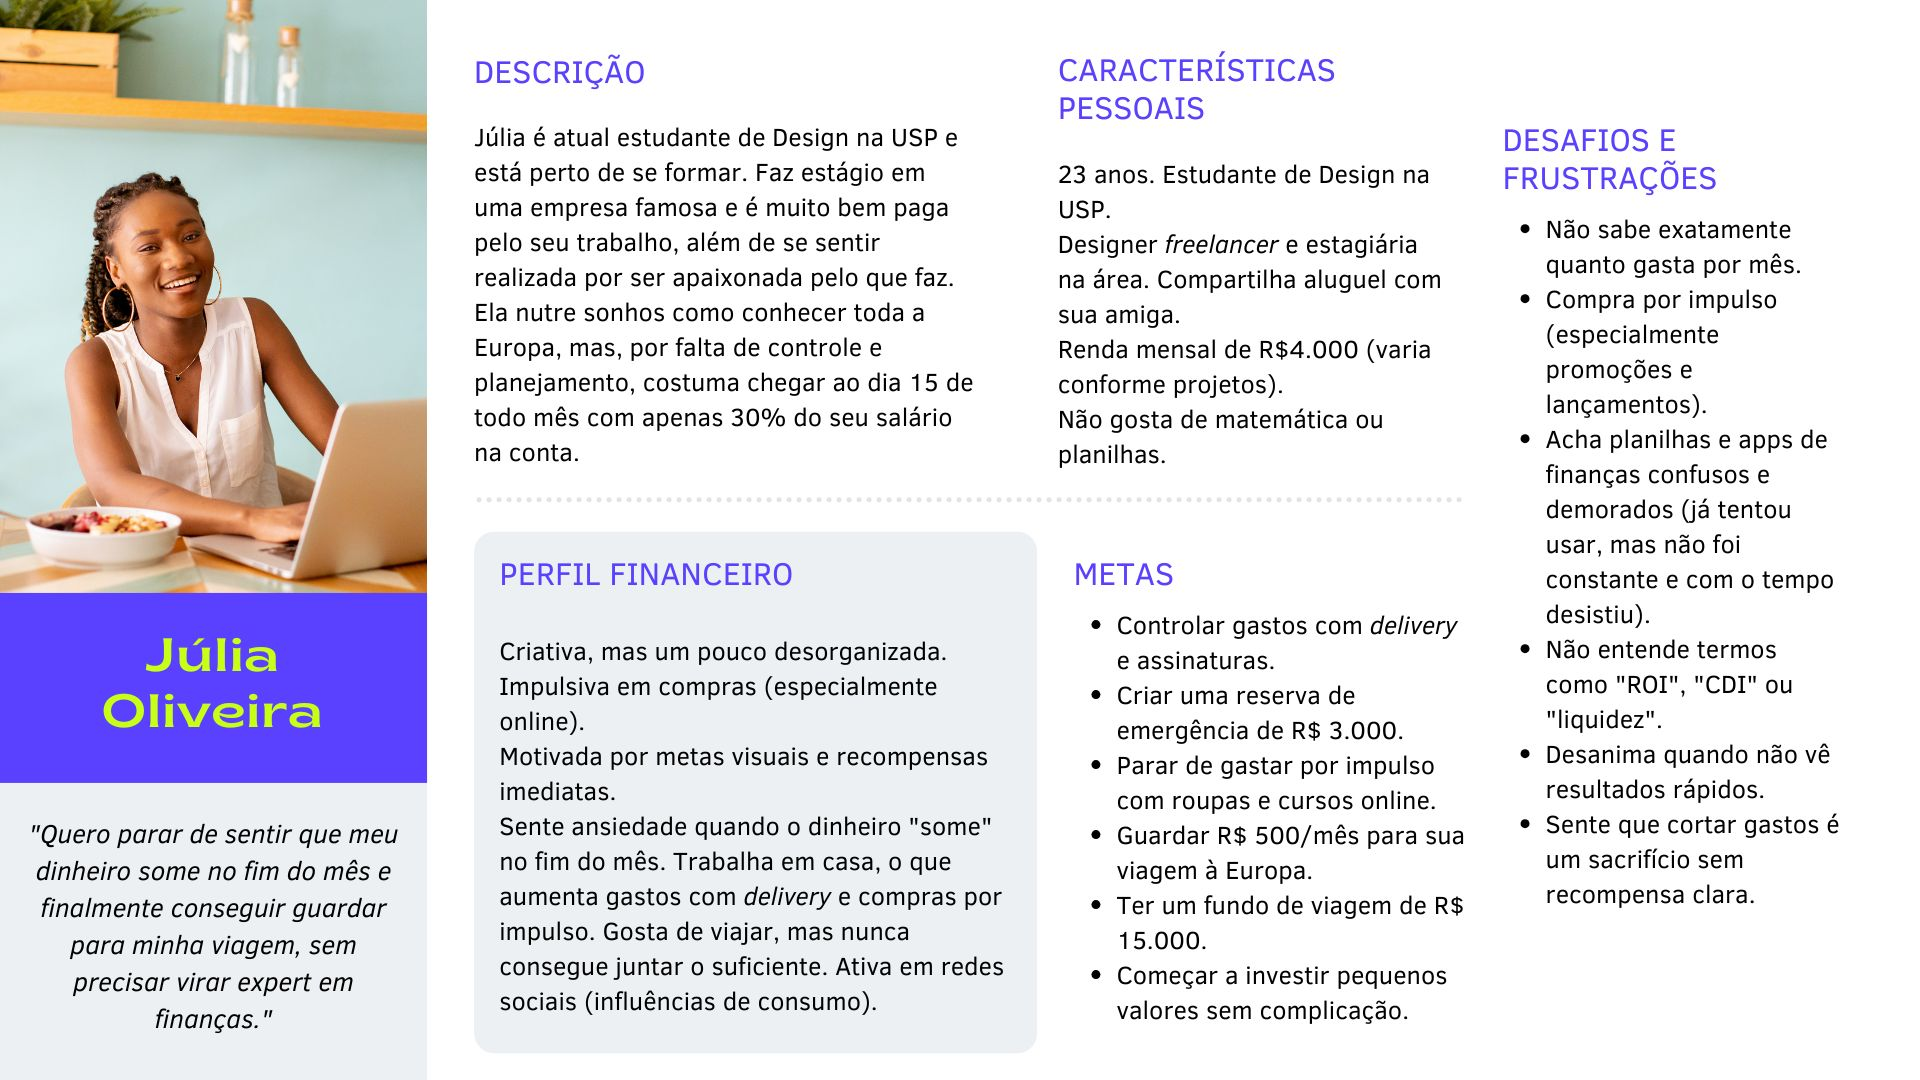
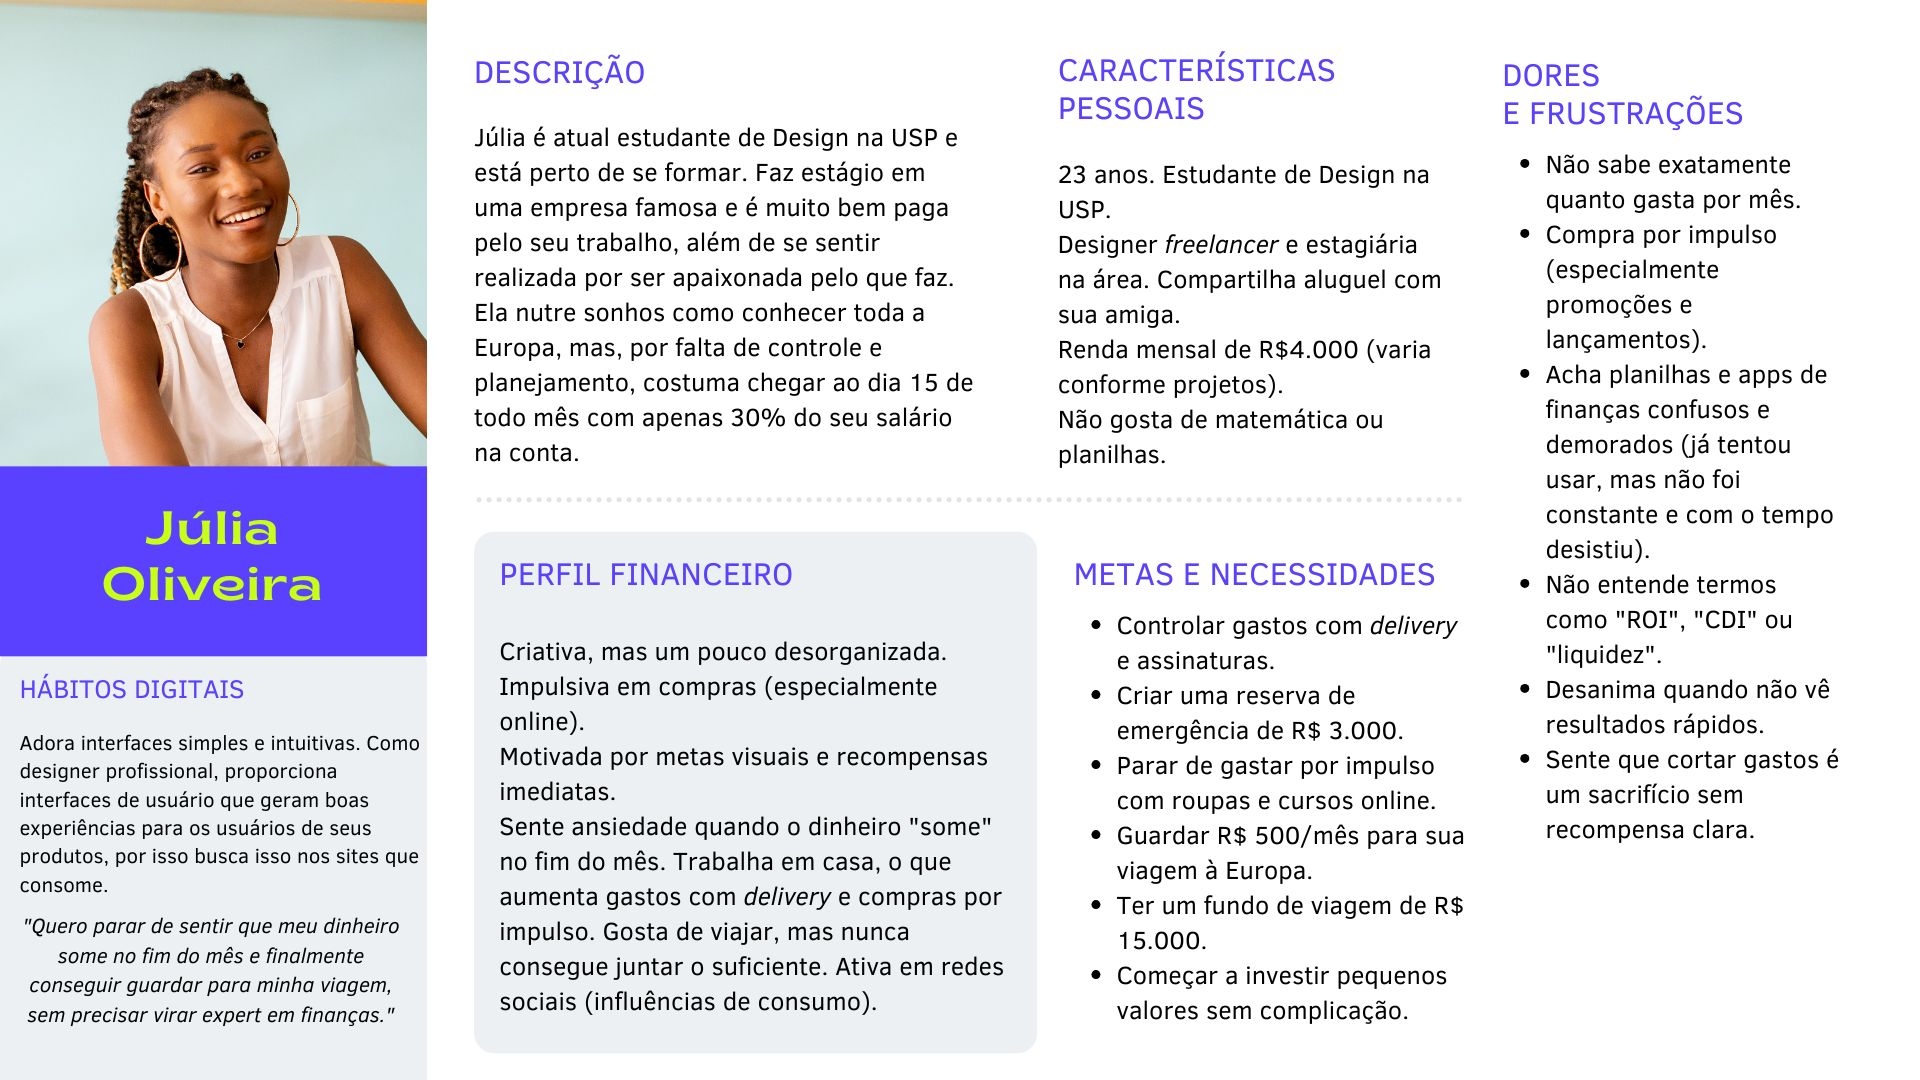
DOC: finaliza entrega da ponderada 1 de UX

Changed region(s): [[0.0, 0.0, 0.25, 0.9472], [0.7812, 0.0611, 0.9688, 0.8556], [0.625, 0.5194, 0.75, 0.55]]

diff --git a/documents/WAD.md b/documents/WAD.md
@@ -24,63 +24,78 @@
 <!-- 
 *Preencha com até 300 palavras – sem necessidade de fonte.*
 *Descreva brevemente o sistema que você irá desenvolver.* -->
+ A opção escolhida para o desenvolvimento do presente projeto foi um gerenciador de tarefas para organização e produtividade. Com a finalidade de explorar um nicho específico, o tema do projeto será voltado para gestão financeira, destinado especialmente a jovens universitários com dificuldades em controlar seus gastos e que estão pouco familiarizados com termos econômicos complexos.
 
-A opção escolhida para o desenvovimento do presente projeto foi um **gerenciador de tarefas para organização e produtividade**. Com a finalidade de explorar um nicho específico, o tema do projeto será voltado para produtividade e organização financeira, destinado especialmente a jovens universitários com dificuldades em controlar seus gastos e pouco familiarizadas com termos econômicos complexos. 
+A necessidade de educação financeira é evidente na população brasileira: 90% admitem precisar de recursos sobre o tema, e 76% afirmam ter metas de planejamento financeiro, segundo a pesquisa Fenaprevi [1]. Entre universitários, existe uma necessidade ainda mais intensa. Um estudo da ANBIMA (2022) revela que apenas 34% dos jovens entre 18 e 24 anos conseguem poupar parte da renda, enquanto 68% não acompanham seus gastos mensais [2]. Além disso, dados do Instituto Brasileiro de Economia (FGV/IBRE) mostram que 61% dos universitários não possuem reserva de emergência, e 47% já se endividaram por falta de planejamento [3].
 
-Na população brasileira em geral, há uma grande necessidade de educação financeira: 90% dos brasileiros admitem ter necessidade de recursos sobre esse tema, e a pesquisa Fenaprevi revela que 76% deles afirmam ter alguma meta de planejamento financeiro[1]. Além disso, sobre o público foco (universitários),
+Diante desses desafios, o objetivo principal é oferecer uma solução simples e intuitiva, que permita gerenciar finanças sem exigir conhecimentos técnicos ou tempo excessivo. Diferentemente das ferramentas atuais – que demandam expertise financeira ou cerca de 20 minutos diários para preenchimento de planilhas –, a proposta é revolucionar a experiência do usuário. Com apenas 5 minutos por dia para registrar compras em um formulário simplificado, o usuário terá acesso a gráficos claros de sua situação financeira, metas de economia e um planner para sonhos de consumo (gerenciador de tarefas).
 
+Ao combinar usabilidade intuitiva com funcionalidades estratégicas, a solução busca empoderar financeiramente jovens universitários, promovendo organização financeira de qualidade independentemente de sua bagagem técnica. Assim, o projeto transforma o controle orçamentário em um hábito acessível e, principalmente, sustentável a longo prazo.
 
-Além disso, artigos mostram que mulheres são as que mais enfrentam a dificuldade da falta de acesso à educação financeira no ensino básico, que traz sequelas para o ensino superior:
-
-> *"Um resultado encontrado que não nos deu motivos para sorrir é que, em média, homens têm um nível de educação financeira superior às mulheres – infelizmente, esse resultado é corroborado por diversas pesquisas anteriores realizadas no Brasil e no mundo. Esperamos que esse tipo de diferença entre homens e mulheres suma muito em breve, tendo em vista que educação financeira é importante para todos, sem distinção."* 
-
-(Texto por Carlos Heitor Campani, Ph.D., CNPI - [2])
-
-
-O principal objetivo é oferecer uma solução simples e intuitiva, que permita ao usuário gerenciar suas finanças sem exigir conhecimentos técnicos ou tempo excessivo - diferentemente das ferramentas atuais, que demandam ou grande expertise financeira ou cerca de 20 minutos diários para preenchimento detalhado de planilhas. A proposta é revolucionar essa experiência através de um sistema prático, onde com apenas 5 minutos diários para registrar compras em um formulário simplificado, o usuário poderá visualizar gráficos claros de sua situação financeira, acompanhar metas de economia e planejar a realização de sonhos de consumo através de um *planner* de tarefas. 
-
-Combinando usabilidade intuitiva com funcionalidades estratégicas, a solução busca empoderar financeiramente todos os jovens que a acessarem, com o objetivo de promover uma organização financeira de qualidade independetemente da bagagem técnica que o jovem carrega. Com isso, o projeto transforma o controle orçamentário em um hábito acessível e, principalmente, sustentável ao longo do tempo.
-
-### 1.2 Benchmarking
-
-Pesquisando sobre ferramentas de gestão financeira e produtividade, encontrei as principais listadas na tabela abaixo:
- 
-<!-- tabela aqui -->
-
-Dessa forma, a decisão do escopo das funcionalidades que o projeto contemplarará foi tomada com base na análise dos pontos positivos e negativos de ferramentas já existentes no mercado. As principais funcionalidades serão ...
-
-<!-- Adicionar concorrência e benchmarking nessa seção de introdução -->
 
 ## <a name="c2"></a>2. Visão Geral da Aplicação Web
 
 ### 2.1. Personas (Semana 01)
 
-Proto-personas foram desenvolvidas para melhor identificar as necessidades do público alvo do projeto, desenvolvendo, assim *features* inteligentes que geram valor ao produto do presente projeto.
-
-Proto-personas são personas desenvolvidas sem pesquisa qualitativa ou quantitativa [3], mas através de experiências de vivências do próprio autor do projeto. Dessa forma, as personas abaixo são inspiradas em pessoas reais no meio social da autora do presente projeto.
+Para garantir que o produto atenda às reais necessidades do público-alvo, foram desenvolvidas proto-personas [4]  baseadas em observações do cotidiano e vivências da autora. Embora não originadas de pesquisas formais (qualitativas/quantitativas), essas personas representam perfis reais identificados no contexto universitário, permitindo a criação de features mais assertivas.
 
 <div align="center">
   <sub>Júlia Oliveira - Proto Persona</sub><br>
   <img src="../assets/wad-assets/julia-oliveira-persona.jpg" width="100%" 
   alt="Júlia Oliveira Persona"><br>
-  <sup>Fonte: feito pela autora.</sup>
+  <sup>Fonte: a autora.</sup>
 </div>
 
 <div align="center">
   <sub>Lucas Souza - Proto Persona</sub><br>
   <img src="../assets/wad-assets/lucas-souza-persona.jpg" width="100%" 
   alt="Lucas Souza Persona"><br>
-  <sup>Fonte: feito pela autora.</sup>
+  <sup>Fonte: a autora.</sup>
 </div>
 
-Por fim, toda a solução será desenvolvida de forma a contemplar as necessidades dos usuários (personas) definidos nessa seção. Além disso, essa seção poderá ser iterada ao longo do desenvolvimento e adaptação do escopo do projeto.
+Essas personas guiarão o desenvolvimento das funcionalidades, mas poderão ser refinadas ao longo do projeto conforme novas descobertas ou validações com usuários reais.
 
 <!-- *Posicione aqui sua(s) Persona(s) em forma de texto markdown com imagens, ou como imagem de template preenchido. Atualize esta seção ao longo do módulo se necessário.* -->
 
 ### 2.2. User Stories (Semana 01)
 
-Abaixo, estão listadas as *User Stories* definidas para o projeto. Todas contemplam os critérios INVEST (...) [4]
+As User Stories abaixo foram cuidadosamente elaboradas para guiar o desenvolvimento do projeto, seguindo os critérios INVEST (Independent, Negotiable, Valuable, Estimable, Small, Testable) [5].
+
+Identificação | US01
+--- | ---
+Persona | Lucas Souza
+User Story | Como estudante universitário que recebe bolsas acadêmicas, quero um ambiente para inserir todo o valor da minha renda, para que eu possa enxergar visualmente como vou dividir meus gastos de forma a não gerar futuras dívidas.
+Critério de aceite 1 | CR1: Campo de inserção de renda. Deve existir um campo claro para inserção do valor total da renda mensal. O campo deve aceitar apenas valores numéricos (com validação para números negativos). Deve exibir um ícone/mensagem de confirmação após inserção válida.
+Critério de aceite 2 | CR2: Visualização da distribuição de gastos. O sistema deve exibir um gráfico simples (ex.: pizza ou barras) com a proporção entre renda e gastos totais. Deve permitir visualização por categorias pré-definidas (alimentação, transporte, lazer etc.). O gráfico deve atualizar automaticamente após nova inserção de renda.
+Critério de aceite 3 | CR3: Alertas preventivos. O sistema deve destacar visualmente quando os gastos ultrapassarem 80% da renda inserida. Deve sugerir ajustes nas categorias com maior porcentagem de gastos. |
+Critérios INVEST | Esta User Story atende plenamente aos critérios INVEST por ser Independente (não requer outras funcionalidades para ter valor), Negociável (os detalhes da visualização podem ser refinados com feedback), e Valorosa (resolve diretamente o problema de planejamento financeiro do Lucas). Além disso, é Estimável (o escopo é delimitado e mensurável), Pequena (foca em uma única capacidade essencial) e Testável (com critérios de aceite claros e verificáveis). Essa combinação garante que a US01 seja viável, relevante e eficaz para o desenvolvimento incremental do produto. 
+
+Identificação | US02
+--- | ---
+Persona | Júlia Oliveira
+User Story | Como estudante com renda limitada que deseja realizar o sonho de comprar uma viagem para a Europa, quero acesso a gráficos e funcionalidades de organização de tarefas para definir ações organizadas e atingir meu objetivo financeiro.
+Critério de aceite 1 | CR1: Definição de Meta Financeira. Sistema deve permitir cadastrar o valor total da viagem/meta e prazo desejado. Deve calcular automaticamente a economia mensal necessária. Deve alertar se o valor for incompatível com a renda cadastrada.
+Critério de aceite 2 | CR2: Gráficos de Progresso. Deve exibir gráfico de evolução mensal da economia (tipo linha ou barra). Gráfico deve comparar meta X valor acumulado. Deve permitir filtrar por períodos (mensal, trimestral, anual). 
+| Critério de aceite 3 | CR3: Planner de Ações. Deve oferecer lista de tarefas vinculadas à meta (ex: "reduzir gastos com delivery"). Deve permitir marcar tarefas como concluídas e mostrar impacto no progresso. Deve sugerir ações baseadas nos gastos cadastrados (ex: "Você gasta R$ X com lazer. Reduzir 20% aceleraria sua meta em Y dias"). |
+
+Identificação | US03
+--- | ---
+Persona | Júlia Oliveira
+User Story | Como uma aluna universitária (com tempo e rotina limitados) que não entende temas complexos de finanças e não consegue ser constante no uso de plataformas padrões de gestão financeira, quero uma ferramenta não-técnica de planejamento financeiro, para que eu possa usufruir de suas funcionalidades sem ter a necessidade de estudar profundamente sobre finanças por fora.
+Critério de aceite 1 | CR1: Interface Simplificada. O sistema deve ter um painel principal com no máximo 5 ações primárias visíveis. Todos os termos técnicos devem ter tooltips explicativos com linguagem cotidiana (ex: "Saldo = quanto você tem disponível agora"). Deve usar ícones intuitivos e cores categorizadas (ex: verde para entradas, vermelho para gastos).
+Critério de aceite 2 | CR2: Relatório "Para Humanos". Deve gerar resumo semanal com frases simples (ex: "Você gastou R$120 a mais com delivery que na semana passada"). Gráficos devem ter comparações visuais. Deve destacar apenas 1-2 insights relevantes por gráfico.
+
+Identificação | US04
+--- | ---
+Persona | Lucas Souza
+User Story | Como um jovem que gasta compulsivamente com jogos assim que recebe dinheiro, quero entender quanto da minha renda posso direcionar para cada área da minha vida, para garantir que não ficarei sem dinheiro para necessidades básicas no final do mês.
+Critério de aceite 1 | CR1: Divisão Automática de Renda. O sistema deve sugerir uma distribuição percentual padrão (ex: 50% necessidades, 30% lazer, 20% poupança). Deve permitir ajuste manual dos percentuais. Deve alertar quando valores forem abaixo do mínimo recomendado para necessidades básicas.
+Critério de aceite 2 | CR2: Visualização de Consequências. Deve mostrar projeção do saldo no final do mês baseado nos gastos atuais. Deve comparar com meses anteriores em um gráfico simples.
+
+
 <!-- *Posicione aqui a lista de User Stories levantadas para o projeto. Siga o template de User Stories e utilize a referência USXX para numeração (US01, US02, US03, ...). Indique todas as User Stories mapeadas, mesmo aquelas que não forem implementadas ao longo do projeto. Não se esqueça de explicar o INVEST de 1 User Storie prioritária.* -->
+
+Essa abordagem assegura que todas as features desenvolvidas entreguem valor real aos usuários finais, mantendo o foco na usabilidade e na solução dos problemas-chave identificados.
 
 ---
 
